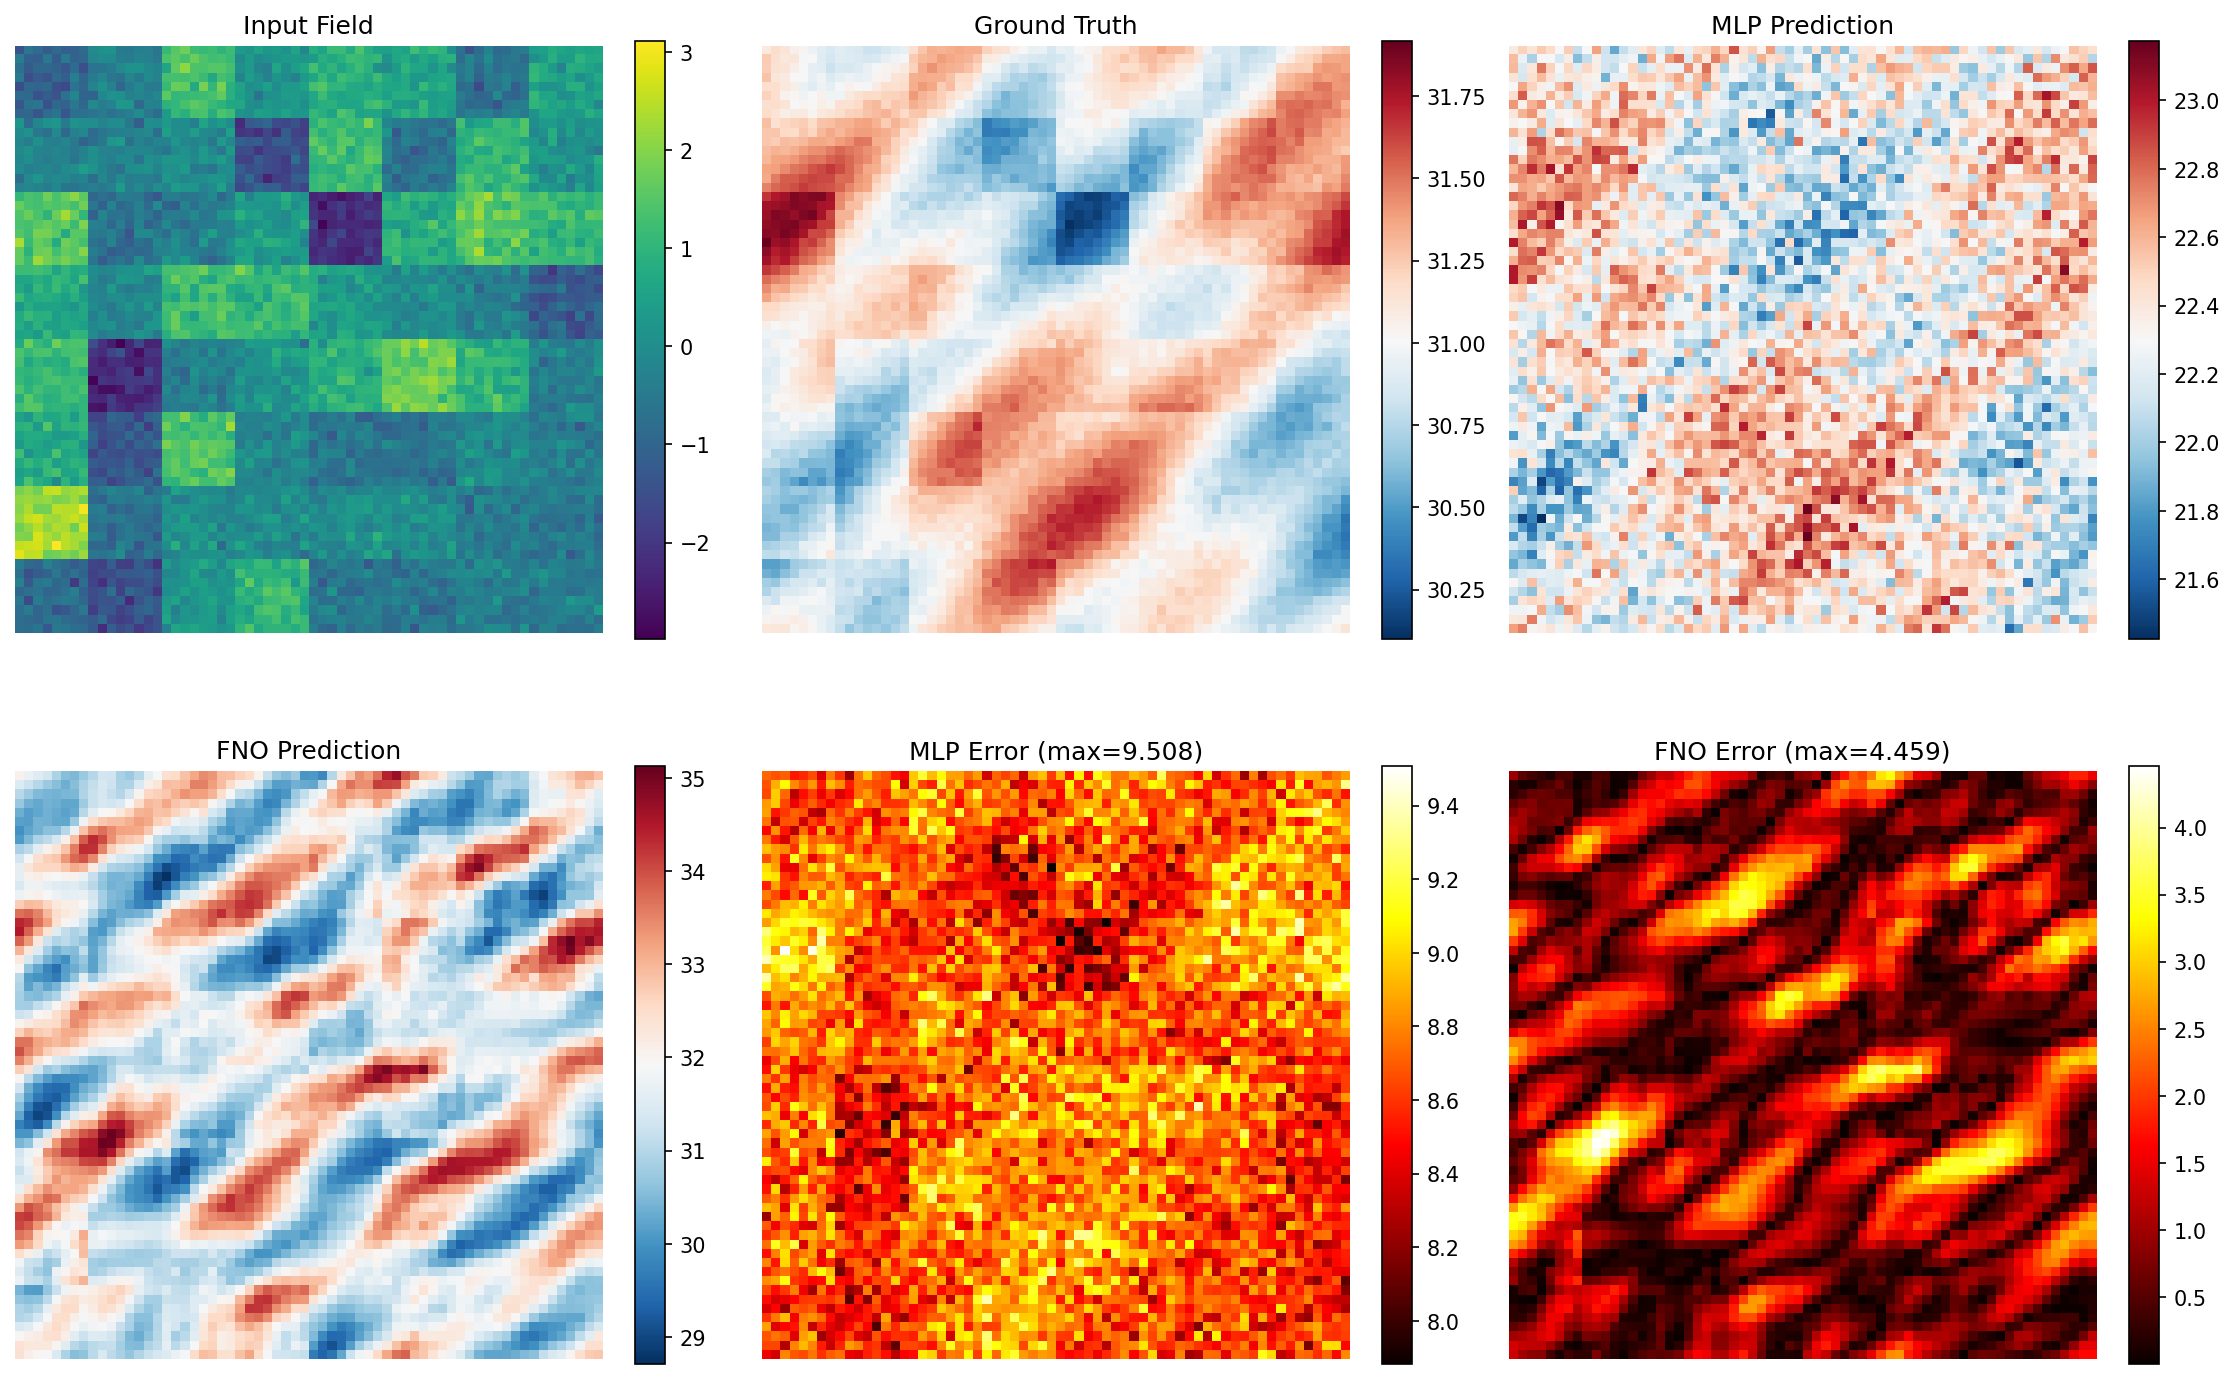
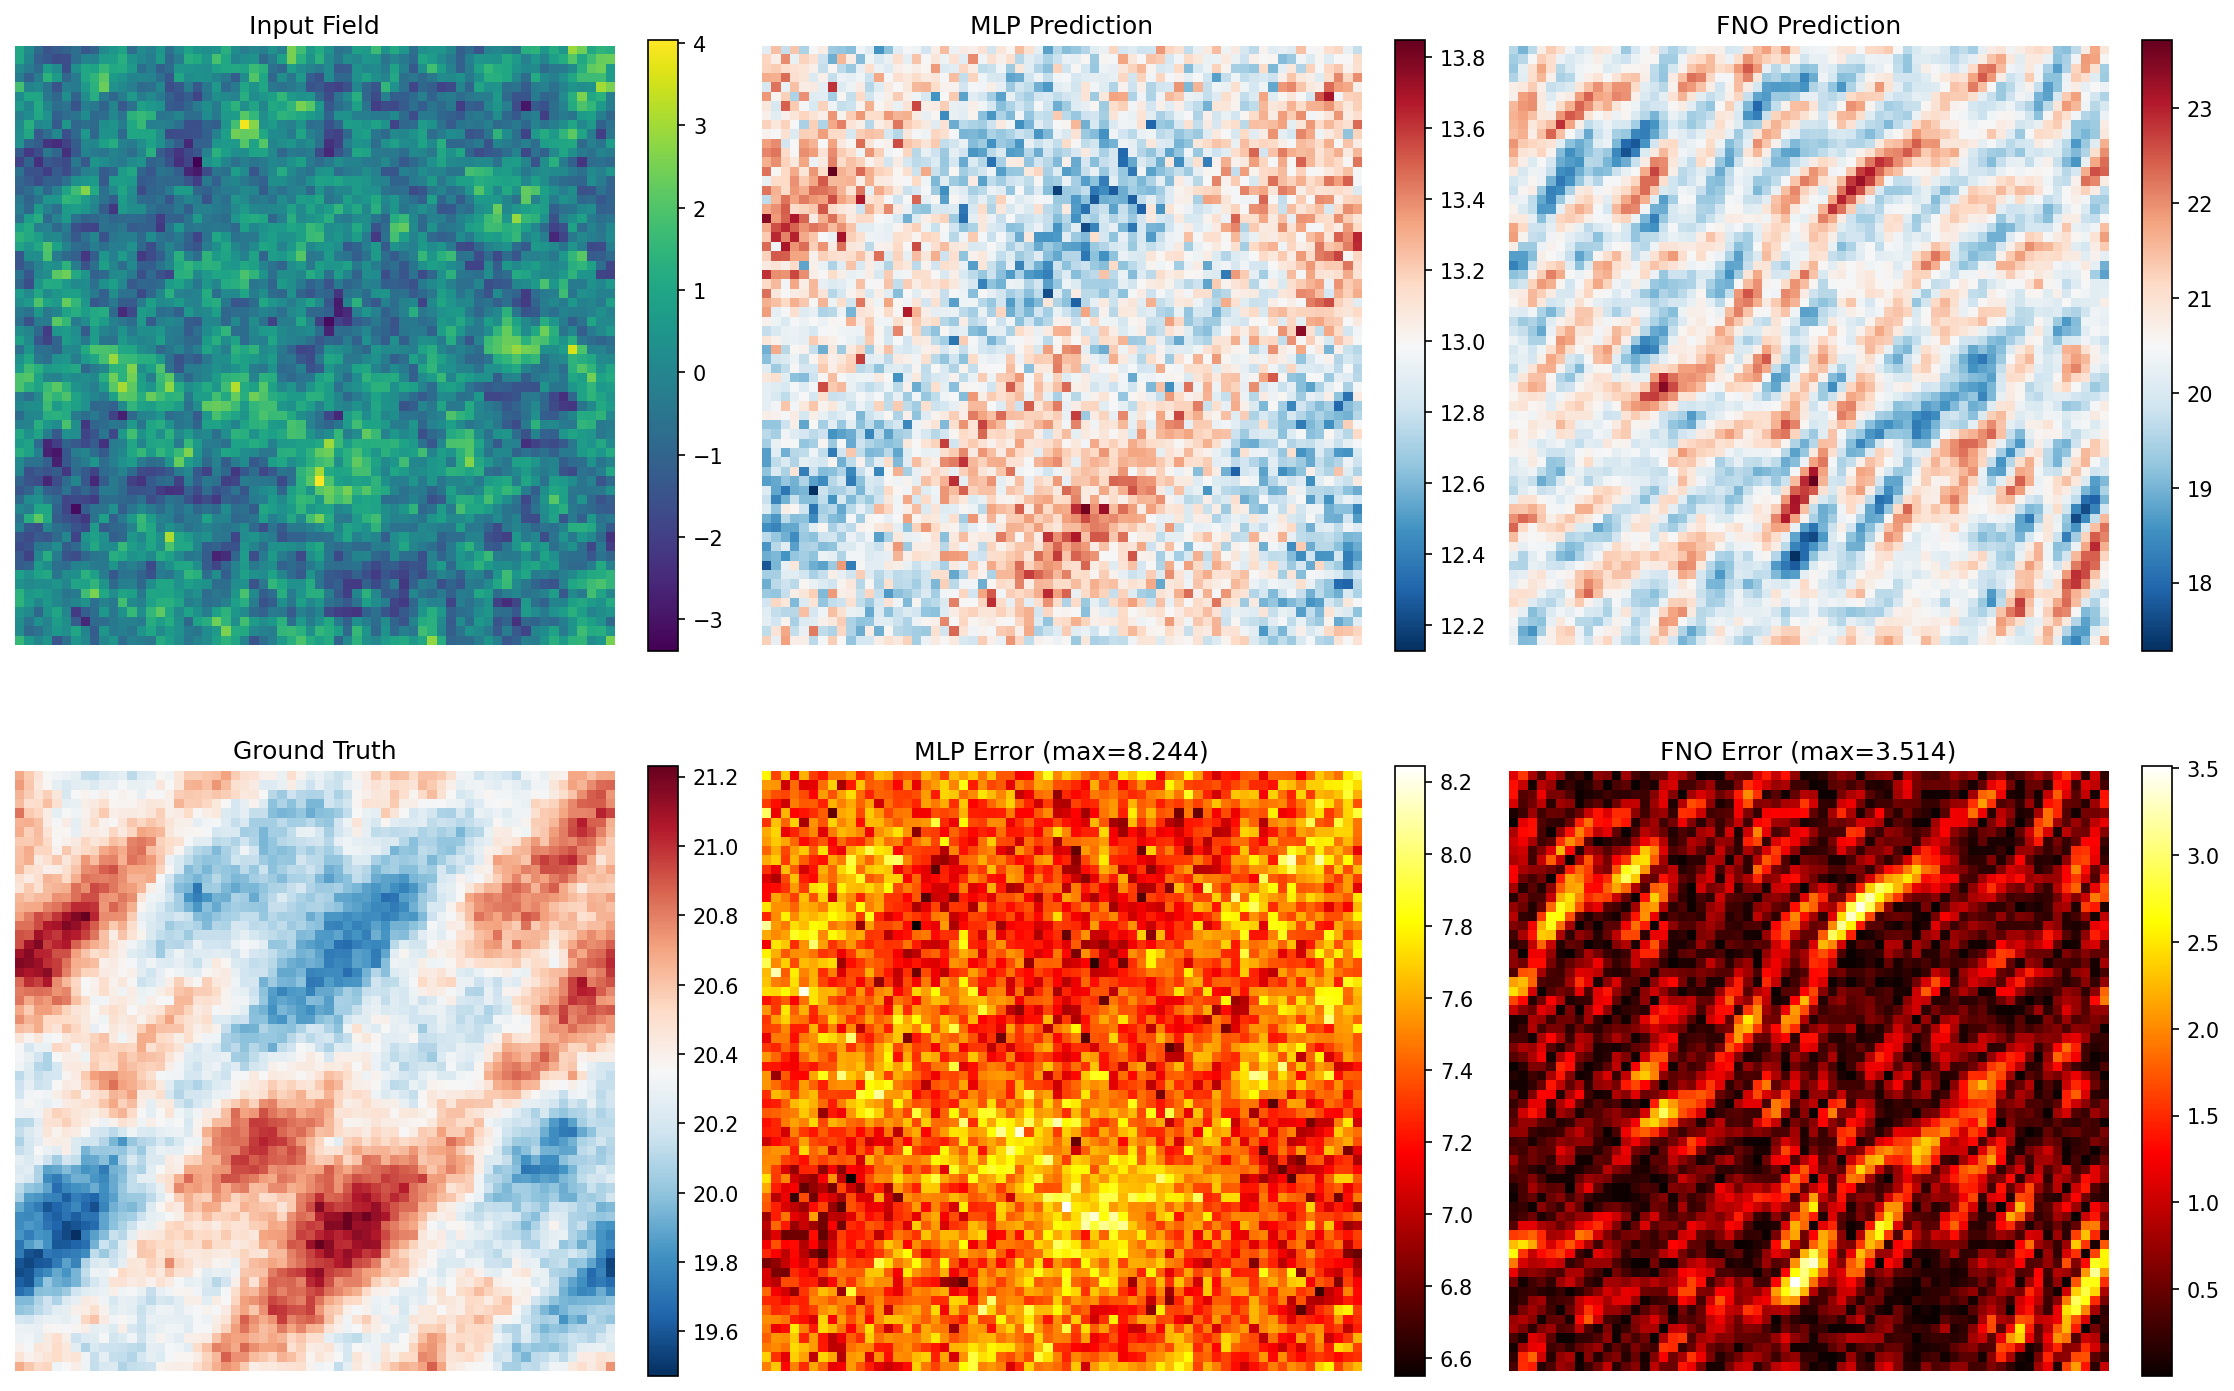
update

diff --git a/physics-engine/fno_torch.py b/physics-engine/fno_torch.py
@@ -1,16 +1,3 @@
-# Fourier Neural Operator (baseline) with PyTorch
-# =================================================
-# This script is a simplified rewrite of the original JAX U-NO showcase. It illustrates the *baseline*
-# Fourier Neural Operator (FNO) described by Li et al., *ICLR 2021* = see Figure 2(b) and Eq. (4) in the
-# paper. The two requested changes are fulfilled:
-#   1.  **Switched the framework from JAX to PyTorch**
-#   2.  **Replaced the U-NO architecture with the plain FNO (no U-Net skip-connections)**
-#
-# The rest of the script (dataset generation, naive MLP baseline, training loop, visualisation) is kept
-# very close to the original so comparisons remain meaningful.
-# ------------------------------------------------------------
-
-from __future__ import annotations
 import time
 from typing import Tuple, Dict
 import numpy as np
@@ -20,12 +7,9 @@ import torch.nn as nn
 import torch.nn.functional as F
 import matplotlib.pyplot as plt
 
-# -----------------------------------------------------------------------------
-# Helper aliases & utilities
-# -----------------------------------------------------------------------------
+
 Tensor = torch.Tensor
 
-# Check for available device (CUDA, MPS, or CPU)
 if torch.cuda.is_available():
     DEVICE = torch.device("cuda")
 elif torch.backends.mps.is_available():
@@ -126,11 +110,6 @@ class FNO2d(nn.Module):
         return x
 
 
-# -----------------------------------------------------------------------------
-#  Complex synthetic dataset (unchanged, now outputs torch tensors)
-# -----------------------------------------------------------------------------
-
-
 def make_complex_dataset(
     seed: int, n_samples: int, n: int = 64
 ) -> Tuple[Tensor, Tensor]:
@@ -139,13 +118,40 @@ def make_complex_dataset(
     x = np.linspace(0.0, 1.0, n, endpoint=False)
     xx, yy = np.meshgrid(x, x, indexing="ij")
 
-    def generate_structured_input() -> np.ndarray:
-        low_freq = rng.normal(size=(8, 8, 1))
-        low_freq = np.stack(
-            [np.kron(low_freq[:, :, 0], np.ones((n // 8, n // 8)))], axis=-1
-        )  # crude resize without scipy
-        high_freq = 0.3 * rng.normal(size=(n, n, 1))
-        return low_freq + high_freq
+    def generate_grf_2d(alpha: float = 2.0, tau: float = 3.0) -> np.ndarray:
+        """Generate a 2D Gaussian Random Field using spectral method.
+
+        Args:
+            alpha: Smoothness parameter (higher = smoother)
+            tau: Length scale parameter (higher = larger features)
+        """
+        # Create frequency grid
+        k_x = np.fft.fftfreq(n, d=1 / n).reshape(-1, 1)
+        k_y = np.fft.fftfreq(n, d=1 / n).reshape(1, -1)
+        k_norm = np.sqrt(k_x**2 + k_y**2)
+
+        # Avoid division by zero at origin
+        k_norm[0, 0] = 1.0
+
+        # Power spectrum for GRF: P(k) ~ (1 + |k|^2 / tau^2)^(-alpha/2)
+        power_spectrum = (1 + (k_norm**2) / (tau**2)) ** (-alpha / 2)
+        power_spectrum[0, 0] = 0  # Zero mean
+
+        # Generate random Fourier coefficients
+        noise_real = rng.normal(0, 1, (n, n))
+        noise_imag = rng.normal(0, 1, (n, n))
+        noise_fft = noise_real + 1j * noise_imag
+
+        # Apply power spectrum
+        grf_fft = noise_fft * np.sqrt(power_spectrum)
+
+        # Inverse FFT to get the field
+        grf = np.real(np.fft.ifft2(grf_fft))
+
+        # Normalize to have unit variance
+        grf = grf / grf.std()
+
+        return grf[..., None]
 
     def apply_operator(field: np.ndarray) -> np.ndarray:
         mean_val = field.mean()
@@ -164,7 +170,7 @@ def make_complex_dataset(
         )
         return u[..., None]
 
-    a = np.stack([generate_structured_input() for _ in range(n_samples)], axis=0)
+    a = np.stack([generate_grf_2d() for _ in range(n_samples)], axis=0)
     u = np.stack([apply_operator(a[i]) for i in range(n_samples)], axis=0)
 
     # to torch
@@ -248,23 +254,25 @@ def visualize(a_s: Tensor, u_true: Tensor, mlp_pred: Tensor, fno_pred: Tensor):
 
     fig, axes = plt.subplots(2, 3, figsize=(15, 10))
 
+    # Top row: Input Field, MLP Prediction, FNO Prediction
     im0 = axes[0, 0].imshow(a_s_np[0, 0], cmap="viridis")
     axes[0, 0].set_title("Input Field")
     axes[0, 0].axis("off")
     plt.colorbar(im0, ax=axes[0, 0], fraction=0.046)
 
-    im1 = axes[0, 1].imshow(u_true_np[0, 0], cmap="RdBu_r")
-    axes[0, 1].set_title("Ground Truth")
+    im1 = axes[0, 1].imshow(mlp_pred_np[0, 0], cmap="RdBu_r")
+    axes[0, 1].set_title("MLP Prediction")
     axes[0, 1].axis("off")
     plt.colorbar(im1, ax=axes[0, 1], fraction=0.046)
 
-    im2 = axes[0, 2].imshow(mlp_pred_np[0, 0], cmap="RdBu_r")
-    axes[0, 2].set_title("MLP Prediction")
+    im2 = axes[0, 2].imshow(fno_pred_np[0, 0], cmap="RdBu_r")
+    axes[0, 2].set_title("FNO Prediction")
     axes[0, 2].axis("off")
     plt.colorbar(im2, ax=axes[0, 2], fraction=0.046)
 
-    im3 = axes[1, 0].imshow(fno_pred_np[0, 0], cmap="RdBu_r")
-    axes[1, 0].set_title("FNO Prediction")
+    # Bottom row: Ground Truth, MLP Error, FNO Error
+    im3 = axes[1, 0].imshow(u_true_np[0, 0], cmap="RdBu_r")
+    axes[1, 0].set_title("Ground Truth")
     axes[1, 0].axis("off")
     plt.colorbar(im3, ax=axes[1, 0], fraction=0.046)
 
@@ -294,6 +302,7 @@ def main():
     train_samples = 256
     test_samples = 64
     steps = 1000  # Increased from 300
+    fno_steps = 5000  # Much longer training for FNO
     batch = 8
 
     print("=" * 70)
@@ -304,8 +313,7 @@ def main():
     a_test, u_test = make_complex_dataset(123, test_samples, n)
 
     # ---------------- MLP baseline ----------------
-    # Reduced MLP size to match FNO parameter count (~1M params)
-    mlp = FlattenMLP(n * n, [256, 512, 256], n * n).to(DEVICE)
+    mlp = FlattenMLP(n * n, [256, 256, 256], n * n).to(DEVICE)
     print(f"MLP parameters: {count_params(mlp):,}")
 
     opt_mlp = torch.optim.Adam(mlp.parameters(), lr=1e-3)
@@ -320,7 +328,8 @@ def main():
 
     opt_fno = torch.optim.Adam(fno.parameters(), lr=3e-4)
     t0 = time.time()
-    train(fno, opt_fno, a_train, u_train, steps=steps, batch=batch)
+    print(f"\nTraining FNO for {fno_steps} steps...")
+    train(fno, opt_fno, a_train, u_train, steps=fno_steps, batch=batch)
     fno_time = time.time() - t0
     fno_res = evaluate(fno, a_test, u_test)
 
@@ -343,25 +352,19 @@ def main():
     fig.savefig("fno_vs_mlp_predictions.png", dpi=150, bbox_inches="tight")
     print("Saved figure to 'fno_vs_mlp_predictions.png'")
 
+    # Return the trained FNO model for use in multi-scale test
+    return fno
 
-def test_fno_multiscale():
+
+def test_fno_multiscale(fno):
     """Test FNO's ability to handle different scales/resolutions."""
     print("\n" + "=" * 70)
     print("Testing FNO Multi-scale Capabilities")
     print("=" * 70)
 
-    # Train on one resolution
+    # The FNO model is already trained from main()
     n_train = 64
-    n_samples = 256
-    a_train, u_train = make_complex_dataset(42, n_samples, n_train)
-
-    # Create FNO model
-    fno = FNO2d(in_channels=1, out_channels=1, width=32, depth=4, modes=16).to(DEVICE)
-    print(f"Training FNO on {n_train}x{n_train} resolution...")
-
-    # Train
-    optimizer = torch.optim.Adam(fno.parameters(), lr=3e-4)
-    train(fno, optimizer, a_train, u_train, steps=500, batch=8)
+    print(f"Using FNO trained on {n_train}x{n_train} resolution...")
 
     # Test on multiple resolutions
     test_resolutions = [32, 64, 128]
@@ -425,13 +428,13 @@ def test_fno_multiscale():
 
         # Ground Truth
         im1 = axes[1, i].imshow(u_np, cmap="RdBu_r")
-        axes[1, i].set_title(f"Ground Truth")
+        axes[1, i].set_title("Ground Truth")
         axes[1, i].axis("off")
         plt.colorbar(im1, ax=axes[1, i], fraction=0.046)
 
         # Prediction
         im2 = axes[2, i].imshow(pred_np, cmap="RdBu_r")
-        axes[2, i].set_title(f"FNO Prediction")
+        axes[2, i].set_title("FNO Prediction")
         axes[2, i].axis("off")
         plt.colorbar(im2, ax=axes[2, i], fraction=0.046)
 
@@ -455,5 +458,5 @@ def test_fno_multiscale():
 
 
 if __name__ == "__main__":
-    main()
-    test_fno_multiscale()
+    fno_model = main()
+    test_fno_multiscale(fno_model)
